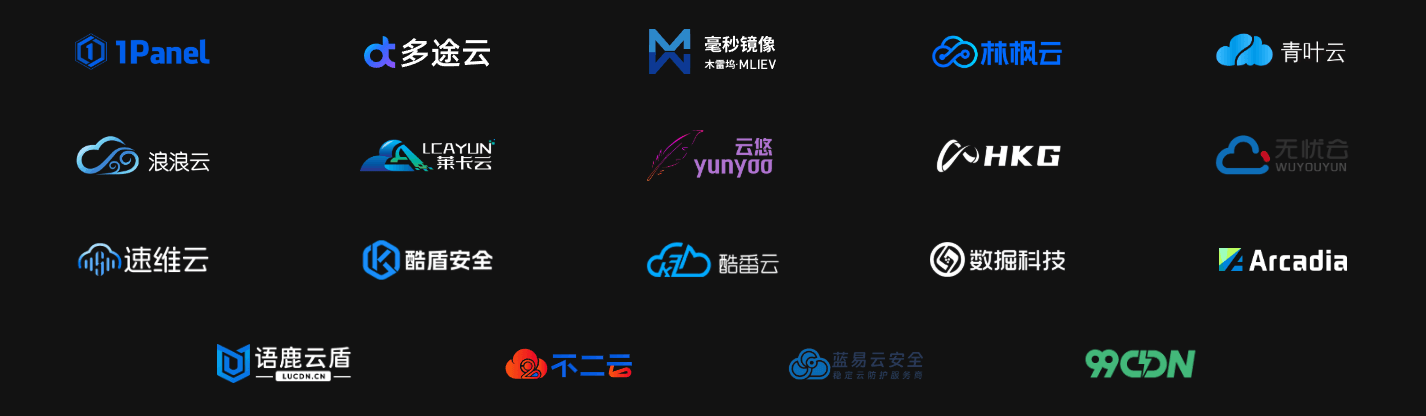
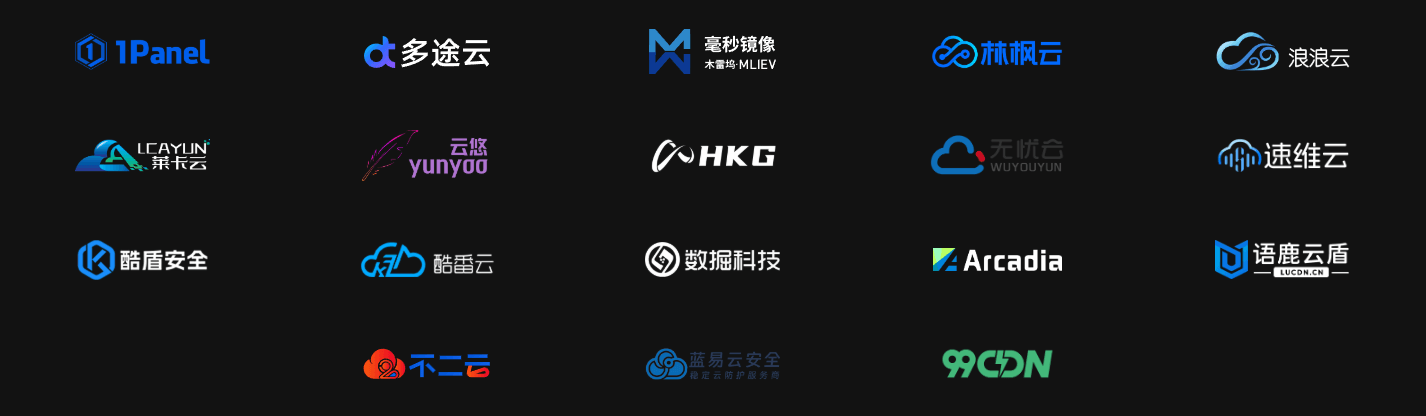
更新文档

diff --git a/docs/theme/partials/toc.html b/docs/theme/partials/toc.html
@@ -14,7 +14,7 @@
         <strong>{{'Sponsors' if i18n_page_locale == 'en' else '贊助商' if i18n_page_locale == 'zh-Hant' else '赞助商'}}</strong>
       </div>
       <div class="sponsor-wrapper sponsor-flex-wrapper-toc no-select">
-        <a class="sponsor-item sponsor-item-toc sponsor-item-toc-full-row" target="_blank" rel="noopener noreferrer" href="https://1panel.cn" title="新一代的 Linux 服务器运维管理面板">
+        <a class="sponsor-item sponsor-item-toc" target="_blank" rel="noopener noreferrer" href="https://1panel.cn" title="新一代的 Linux 服务器运维管理面板">
           <img src="/assets/images/sponsor/1panel.png" alt="1Panel" style="filter: grayscale(1) invert(0.6)" />
         </a>
         <a class="sponsor-item sponsor-item-toc" target="_blank" rel="noopener noreferrer" href="https://www.duotuyun.com" title="智能化防护，每一次连接皆在安全之下">
@@ -28,10 +28,6 @@
         <a class="sponsor-item sponsor-item-toc" target="_blank" rel="noopener noreferrer" href="https://www.dkdun.cn/aff/VAWGETUL" title="专注独立IP高频VPS｜R9/i9系列定制">
           <img src="/assets/images/sponsor/linfengyun.png#only-light" alt="林枫云" style="filter: grayscale(1) invert(0.6)" />
           <img src="/assets/images/sponsor/linfengyun.png#only-dark" alt="林枫云" style="filter: grayscale(1) invert(0.5)" />
-        </a>
-        <a class="sponsor-item sponsor-item-toc" target="_blank" rel="noopener noreferrer" href="https://www.qingyeyun.com" title="香港1T高防｜自助防火墙，无视CC｜大带宽回国优化线路">
-          <img src="/assets/images/sponsor/qingyeyun-light.png#only-light" alt="青叶云" style="filter: grayscale(1) invert(0.4)" />
-          <img src="/assets/images/sponsor/qingyeyun-dark.png#only-dark" alt="青叶云" style="filter: grayscale(1) invert(0.4)" />
         </a>
         <a class="sponsor-item sponsor-item-toc" target="_blank" rel="noopener noreferrer" href="https://langlangy.cn/?icf164b" title="BGP网络让每一次连接都纵享丝滑，明码标价、无套路续费">
           <img src="/assets/images/sponsor/langlangyun-light.png#only-light" alt="浪浪云" style="filter: grayscale(1) invert(0.3)" />

diff --git a/docs/sponsor/main.html b/docs/sponsor/main.html
@@ -20,13 +20,8 @@
       <!-- 27 11 1 -->
       <img src="/assets/images/sponsor/linfengyun.png" alt="林枫云" />
     </a>
-    <a class="sponsor-item sponsor-item-flex" target="_blank" rel="noopener noreferrer" href="https://www.qingyeyun.com" title="香港1T高防｜自助防火墙，无视CC｜大带宽回国优化线路">
-      <!-- 26 8 18 -->
-      <img src="/assets/images/sponsor/qingyeyun-light.png#only-light" alt="青叶云" />
-      <img src="/assets/images/sponsor/qingyeyun-dark.png#only-dark" alt="青叶云" />
-    </a>
     <a class="sponsor-item sponsor-item-flex" target="_blank" rel="noopener noreferrer" href="https://langlangy.cn/?icf164b" title="BGP网络让每一次连接都纵享丝滑，明码标价、无套路续费">
-      <!-- 26 8 25 -->
+      <!-- 27 8 25 -->
       <img src="/assets/images/sponsor/langlangyun-light.png#only-light" alt="浪浪云" />
       <img src="/assets/images/sponsor/langlangyun-dark.png#only-dark" alt="浪浪云" />
     </a>
